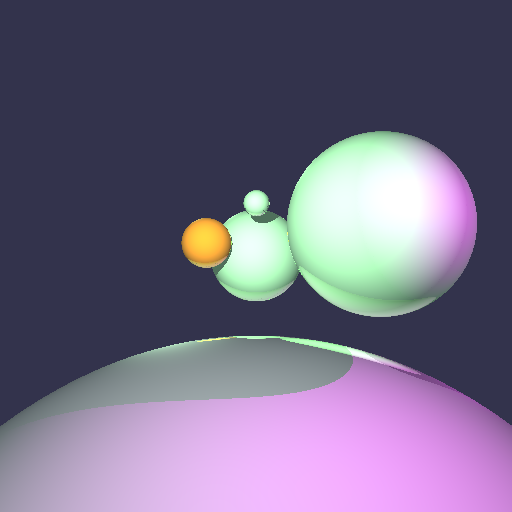
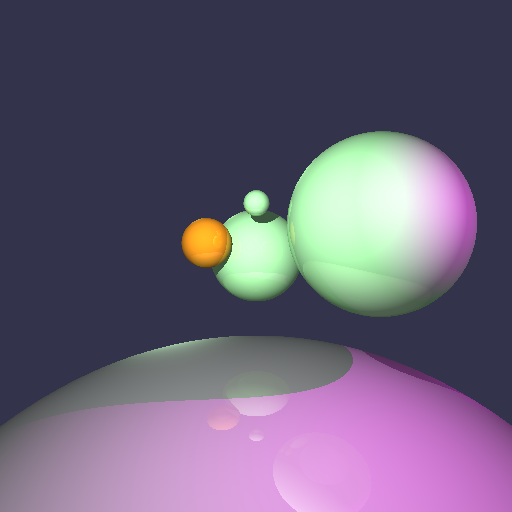
;;

diff --git a/A4/A4.cpp b/A4/A4.cpp
@@ -11,8 +11,8 @@ using namespace glm;
 typedef unsigned int uint;
 
 static vec3 Reflect(vec3 d, vec3 n) {
-    vec3 result = d - 2 * dot(d, n) * n;
 
+    vec3 result = d - 2 * dot(d, n) * n;
 #if 0
     float cos1 = dot(-d, n) / (length(-d) * length(n));
     float cos2 = dot(result, n) / (length(result) * length(n));
@@ -75,6 +75,7 @@ static bool Hit(SceneNode * root, Ray & ray) {
     return false;
 }
 
+
 static vec3 DirectLight(SceneNode * root,
                         const vec3 & pos,
                         const vec3 & normal,
@@ -87,10 +88,15 @@ static vec3 DirectLight(SceneNode * root,
     vec3 shadow_e = pos;
     vec3 shadow_d = normalize(light->position - pos);
     Ray shadow_ray = {pos, shadow_d};
-    vec3 h = normalize(v + shadow_d);
+    vec3 h = normalize(normalize(v) + normalize(shadow_d));
     if (!Hit(root, shadow_ray)) {
-        
-        result += kd * max(0.0f, dot(normal, shadow_d)) * light->colour
+        // double r = length(light->position - pos);
+        // double attenuation = 1.0 / ( light->falloff[0] + light->falloff[1] * r + light->falloff[2] * r * r );
+#if 0
+        result = kd * max(0.0f, dot(normal, shadow_d)) * light->colour * attenuation
+            + ks * pow(max(0.0f, dot(normal, h)), shininess) * light->colour * attenuation;
+#endif
+        result = kd * max(0.0f, dot(normal, shadow_d)) * light->colour
             + ks * pow(max(0.0f, dot(normal, h)), shininess) * light->colour;
         
         // result += kd * light->colour;
@@ -98,12 +104,12 @@ static vec3 DirectLight(SceneNode * root,
     return result;
 }
 
-
 static vec3 RayColour(
     SceneNode * root,
     Ray & ray,
     uint maxhit,
     const vec3 ambient,
+    const vec3 eye,
     const std::list<Light *> & lights)
 {
     vec3 colour = vec3(0.2, 0.2, 0.3);
@@ -113,16 +119,18 @@ static vec3 RayColour(
     if (Hit(root, kd, ks, shininess, ray, normal, hit_point)) {
         colour = kd * ambient;
         for (const Light * light : lights) {
-            colour += DirectLight(root, hit_point, normal,
-                                  kd, ks, ray.direction,
-                                  shininess, light);            
+            colour +=  DirectLight(root, hit_point, normal,
+                                   kd, ks, hit_point - eye,
+                                   shininess, light);
+            
         }
 #if 1
         // TODO: DEBUG THIS !!!!
         if (maxhit < 8) {
             maxhit += 1;
+            ray.origin = hit_point;
             ray.direction = normalize(Reflect(ray.direction, normal));
-            colour += ks * RayColour(root, ray, maxhit, ambient, lights);
+            colour += 0.25f * ks * RayColour(root, ray, maxhit, ambient, eye, lights);
         }
 #endif        
     }
@@ -195,8 +203,10 @@ void A4_Render(
                 int a = 0;
             }
             
-            colour = RayColour(root, ray, 0, ambient, lights);
+            colour = RayColour(root, ray, 0, ambient, eye, lights);
+
             if (colour.z > mx.z) mx = colour;
+            
             image(x, y, 0) = colour.x;
             image(x, y, 1) = colour.y;
             image(x, y, 2) = colour.z;

diff --git a/A4/Primitive.cpp b/A4/Primitive.cpp
@@ -3,7 +3,7 @@
 #include "Primitive.hpp"
 #include "polyroots.hpp"
 
-const static float minhit = 0.01f;
+const static float minhit = 0.05f;
 
 
 Primitive::~Primitive()
@@ -20,6 +20,11 @@ Cube::~Cube()
 
 NonhierSphere::~NonhierSphere()
 {
+}
+
+bool NonhierBox::Hit(const glm::vec3 & e, const glm::vec3 & d, glm::vec3 & normal,
+                     glm::vec3 & hit_point, float & min_t) {
+
 }
 
 bool NonhierSphere::Hit(const glm::vec3 & e, const glm::vec3 & d, glm::vec3 & normal,

diff --git a/A4/Primitive.hpp b/A4/Primitive.hpp
@@ -48,6 +48,9 @@ public:
     : m_pos(pos), m_size(size)
   {
   }
+
+    bool Hit(const glm::vec3 & e, const glm::vec3 & d,
+             glm::vec3 & normal, glm::vec3 & hit_point, float & min_t);
   
   virtual ~NonhierBox();
 
